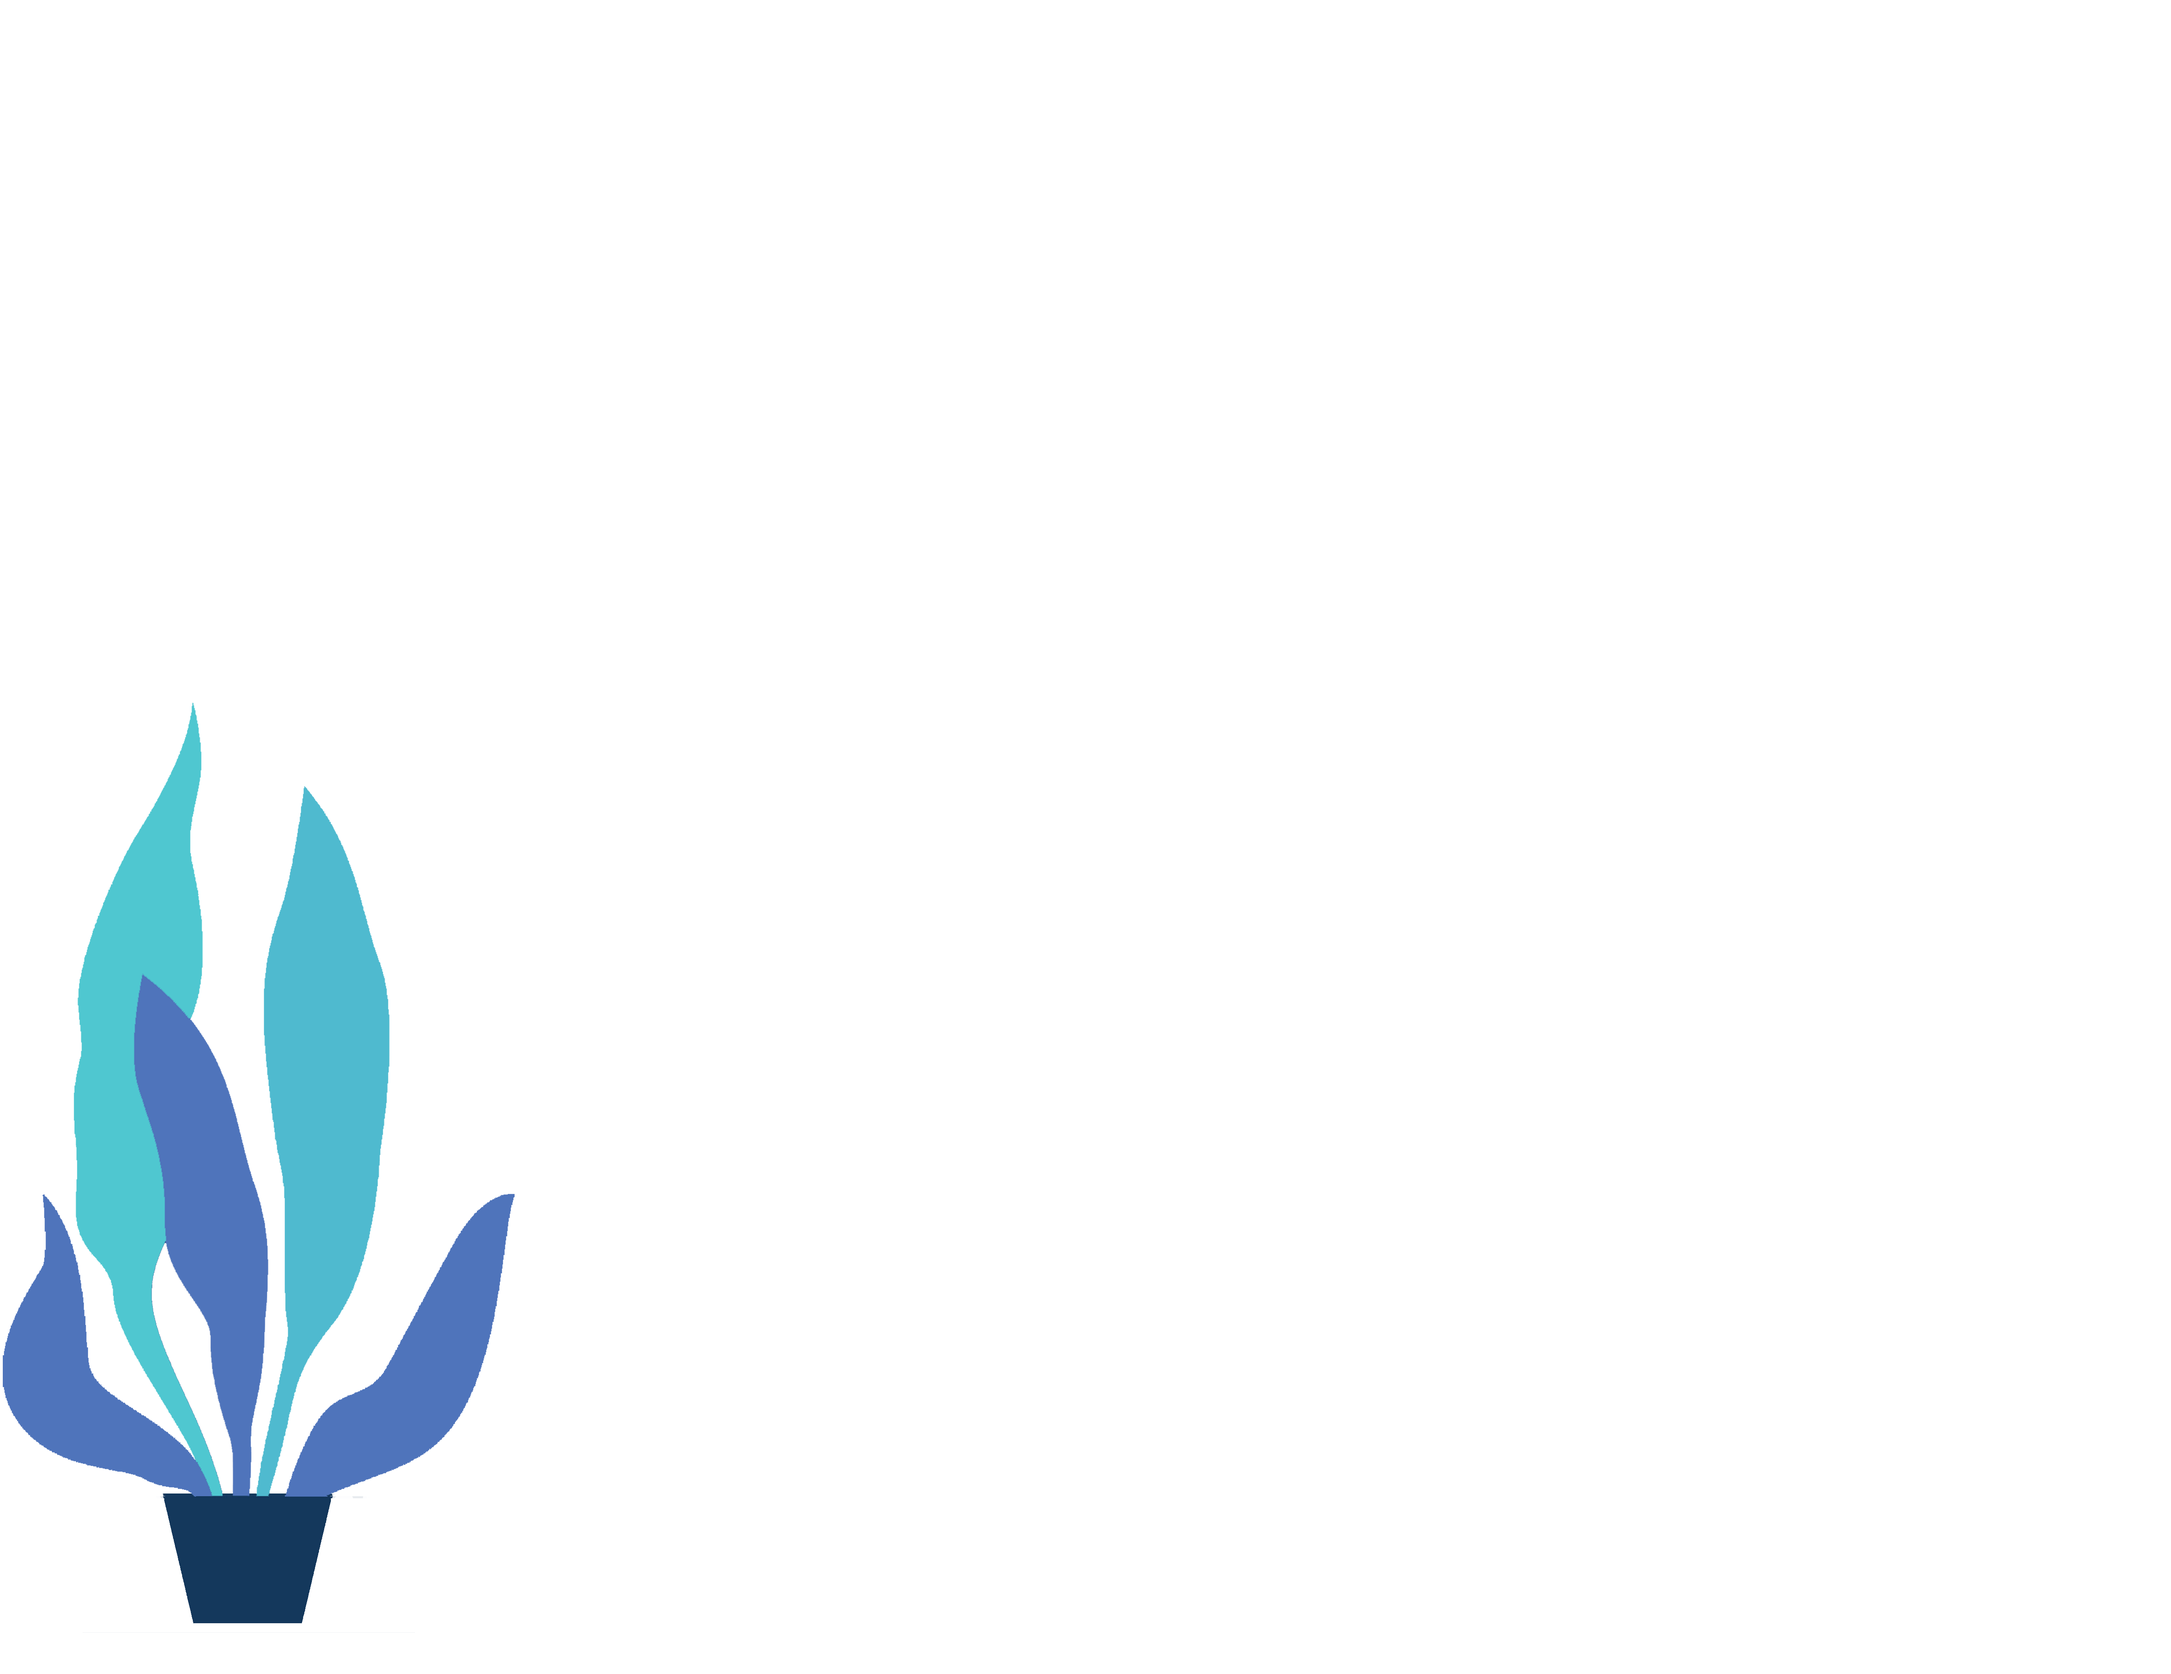
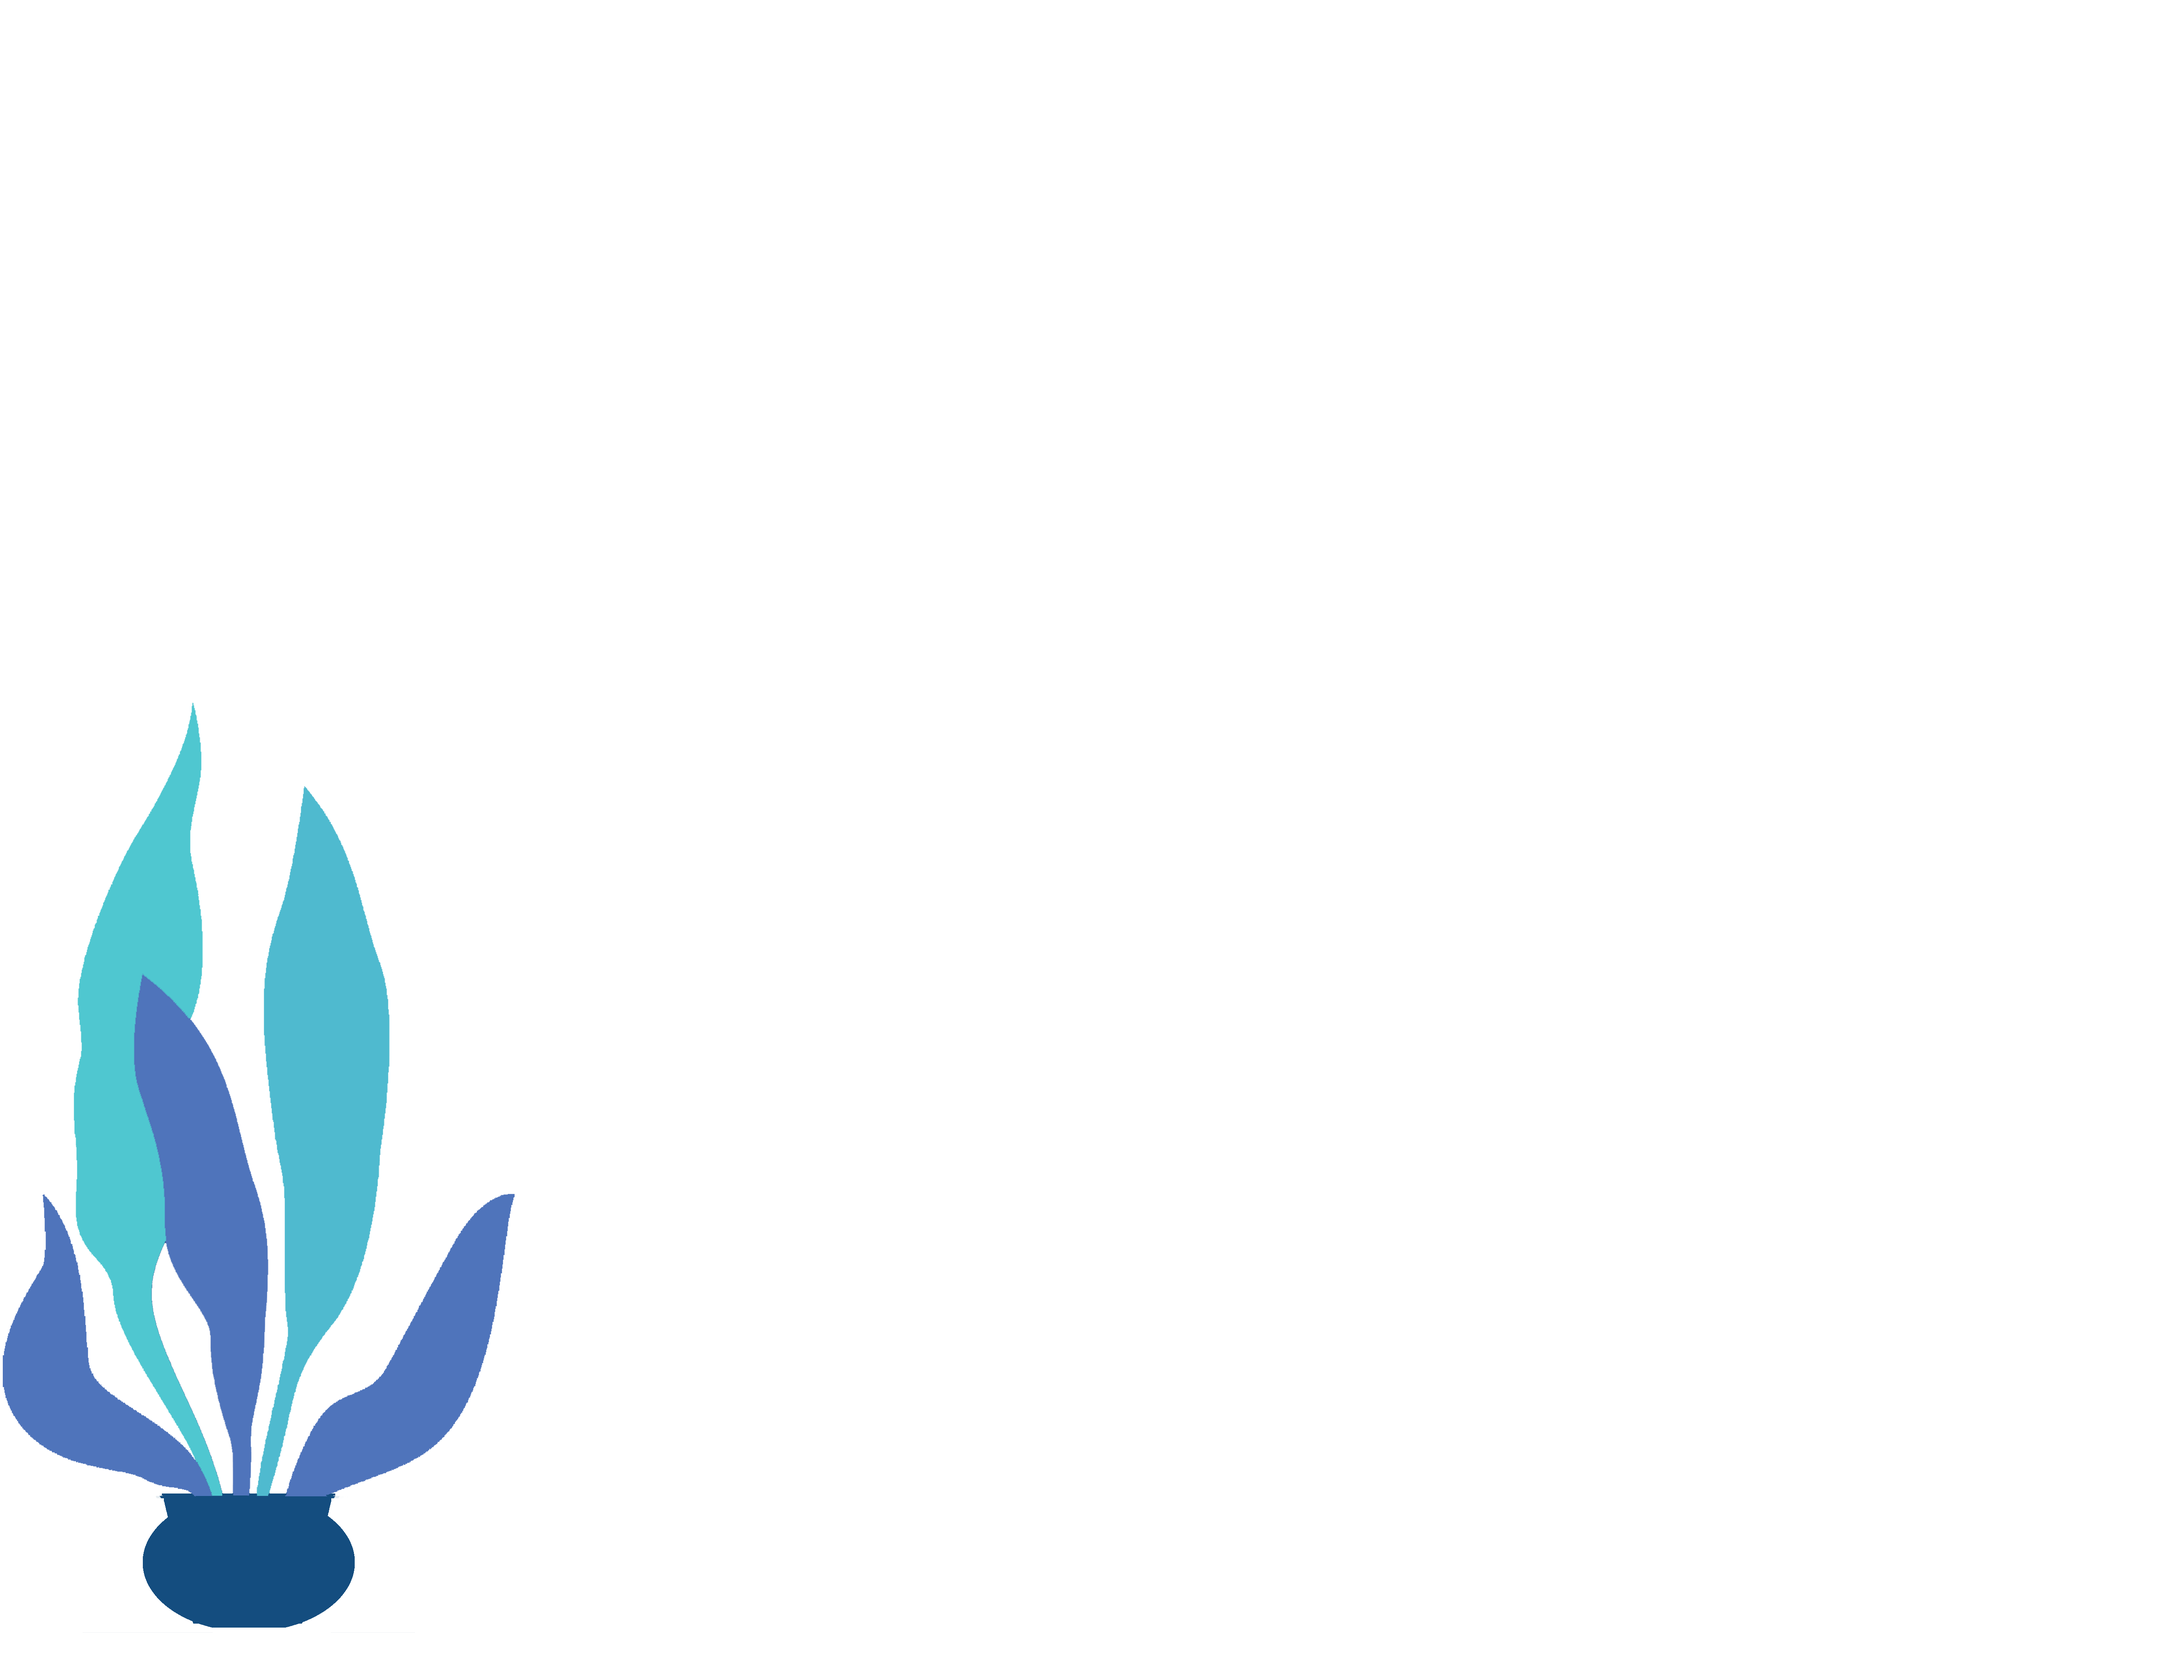
ajustes animaciones

Changed region(s): [[0.0625, 0.8692, 0.1875, 0.9934]]

diff --git a/texto_inicio.css b/texto_inicio.css
@@ -1,10 +1,6 @@
 @import 'https://fonts.googleapis.com/css?family=Baloo+Paaji';
 @import url('https://fonts.googleapis.com/css2?family=Baloo+2&display=swap');
-
-/* $primary-color: #1e90ff ;
-$secondary-color: #ffe221;
-$tertiary-color: #ffffff; */
-  
+ 
 html, body{
   height: 100%;
 }
@@ -33,30 +29,30 @@ h1, h2{
 }  
   
 .texto {
-    width: 100%;
-    float: left;
-    color: #ffffff;
-    -webkit-clip-path: polygon(100% 0, 100% 100%, 0 100%, 0 80%);
-    clip-path: polygon(100% 0, 100% 100%, 0 100%, 0 80%);
-    transform: translateY(-50px);
-    opacity: 0;
-    animation-name: titleAnimation;
-    animation-timing-function:ease;
-    animation-duration: 3s;
+  width: 100%;
+  float: left;
+  color: #ffffff;
+  -webkit-clip-path: polygon(100% 0, 100% 100%, 0 100%, 0 80%);
+  clip-path: polygon(100% 0, 100% 100%, 0 100%, 0 80%);
+  transform: translateY(-50px);
+  opacity: 0;
+  animation-name: titleAnimation;
+  animation-timing-function:ease;
+  animation-duration: 2.5s;
 }
 
 .primero span{
-  animation-delay: 11.6s;
+  animation-delay: 1.6s;
   animation-fill-mode: forwards;
 }
 
 .primero span:first-child{
-    animation-delay: 11.7s;
+    animation-delay: 1.7s;
 }
 
 .primero span:last-child{
     color:#ffe221;
-    animation-delay: 11.5s;
+    animation-delay: 1.5s;
 }
 
 .segundo{ 
@@ -64,18 +60,17 @@ h1, h2{
   position: absolute;
 }  
 .segundo span{
-    animation-delay: 15.1s;
+    animation-delay: 5.1s;
     animation-fill-mode: forwards;
 }
 .segundo span:first-child{
-      animation-delay: 15.2s;
+      animation-delay: 5.2s;
 }
 .segundo strong{
   color: #ffe221;
 }
-.segundo span:last-child{
-     
-      animation-delay: 15s;
+.segundo span:last-child{    
+      animation-delay: 5s;
 }
 
 .tercero{ 
@@ -83,16 +78,16 @@ h1, h2{
     position: absolute;
   }  
   .tercero span{
-      animation-delay: 19.1s;
+      animation-delay: 8.9s;
       animation-fill-mode: forwards;
   }
   .tercero span:first-child{
-        animation-delay: 19.2s;
+        animation-delay: 9s;
   }
   
   .tercero span:last-child{
         color: #ffe221;
-        animation-delay: 19s;
+        animation-delay: 8.8s;
   }
 
 

diff --git a/style.css b/style.css
@@ -264,7 +264,7 @@ section{
     height: 55%;
   }
   .container_bocadillo{
-    top: 57%;
+    top: 54%;
     left: 23%;
     padding: 1em;
   }
@@ -288,27 +288,27 @@ section{
   animation: bounceIn 1s 6s forwards ;
 }
 .window{
-  animation:bounceIn 1s 17s forwards, bg_window 20s 17s infinite;
+  animation:bounceIn 1s 14.5s forwards, bg_window 20s 14.5s infinite;
 }
 .sillon{
-  animation: fadeInDownBig 0.5s 18s forwards, shakeX .12s 18.3s;
+  animation: fadeInDownBig .7s 15s forwards, shakeX .12s 15.4s;
 }
 .sillon_delante{
-  animation: fadeInDownBig 0.5s 18s forwards, shakeX .12s 18.3s;
+  animation: fadeInDownBig .7s 15s forwards, shakeX .12s 15.4s;
 }
 .chica{
-  animation-delay: 19.5s;
+  animation-delay: 16.5s;
 }
 .planta{
-  animation: fadeInDownBig 0.9s 20s forwards, shakeX .12s 20.9s;
+  animation: fadeInDownBig 0.7s 17s forwards, shakeX .12s 17.4s;
 }
 
 .container_bocadillo,.container_bocadillo::after,.container_bocadillo::before{
-  animation: bounceIn 1s 22s forwards ;
+  animation: bounceIn 1s 19s forwards ;
 }
 
 .bocadillo p {
   animation: 
-    typing 3.5s 22s steps(30, end),
-    blink-caret .5s 22s step-end infinite;
+    typing 3.5s 19s steps(30, end),
+    blink-caret .5s 19s step-end infinite;
 }

diff --git a/menu.css b/menu.css
@@ -69,7 +69,7 @@
     transform: translateY(-200vh);
     transition: transform 0.3s;
     /* animation: aparece_circulo 2s cubic-bezier(.7,1,.7,.9) */ /* forwards */ /* infinite */;
-    animation: ballBouncing 4s linear forwards;
+    animation: ballBouncing 3s 10.5s linear forwards;
     z-index: 100;
     cursor: pointer;
 }
@@ -283,14 +283,17 @@
 
 @media only screen and (max-width: 450px) {
   .container_contact.active{
-    animation: bounceIn .7s 1s forwards;
+    animation: bounceIn .7s 1.2s forwards;
   }
   .hamb{
-    animation: bounceIn .3s 15.5s linear forwards ;
+    animation: bounceIn .7s 13.3s linear forwards ;
   }
   .container_menu{
-    animation: ballBouncing 4s 10s linear forwards;
-}
+    animation: ballBouncing 3s 10s linear forwards;
+  }
+  .container_menu:hover{
+    box-shadow: -1px 6px 3px rgba(50, 50, 0, 0.2);
+  }  
 
 }
 

diff --git a/index.html b/index.html
@@ -71,7 +71,7 @@
             <img src="./img/chica_sillon.png" class="section-img chica" alt="">
             <img src="./img/sillon.png" class="section-img sillon" alt="">
             <img src="./img/sillon_delante.png" class="section-img sillon_delante" alt="">
-            <img src="./img/planta1.png" class="section-img planta" alt="">
+            <img src="./img/planta2.png" class="section-img planta" alt="">
         </div>
     </section>
 
